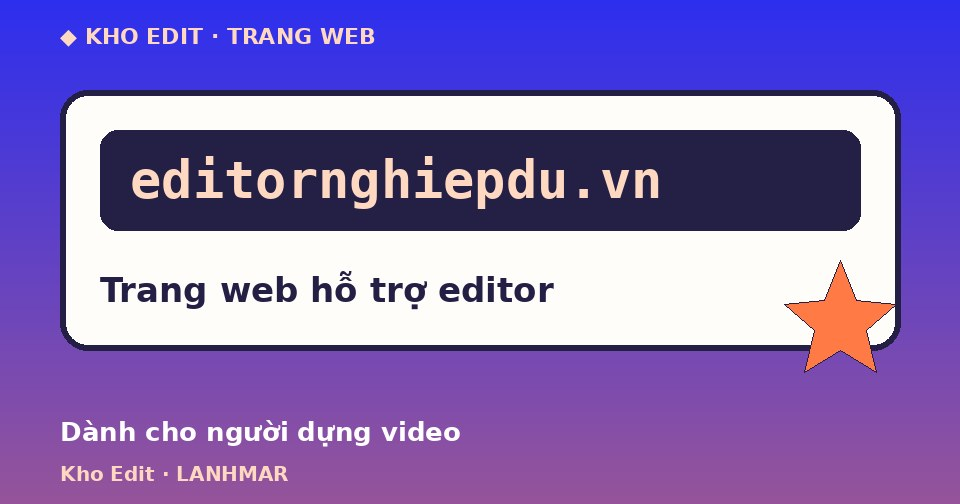
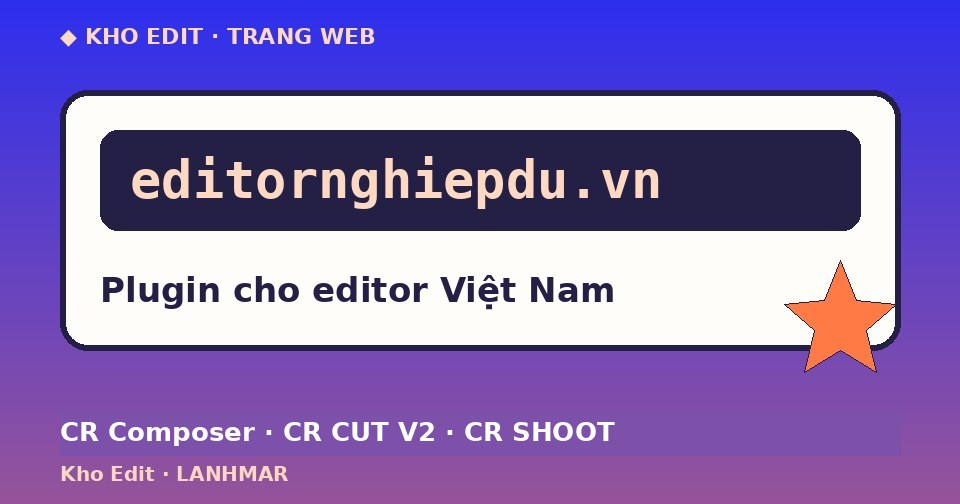
Kho Edit: bổ sung đầy đủ thông tin Editor Nghiệp Dư (plugin, ứng dụng, hỗ trợ)
Claude-Session: https://claude.ai/code/session_01RqgEvEgWxcjLrv9ZG7Ny97

diff --git a/storage.html b/storage.html
@@ -6,8 +6,8 @@
 <title>Data Storage — LANHMAR</title>
 <meta name="robots" content="noindex,nofollow,noarchive">
 <link rel="icon" href="assets/img/logo-lanhmar.png">
-<link rel="stylesheet" href="kho.css?v=20261028f">
-<link rel="stylesheet" href="donate.css?v=20261028f">
+<link rel="stylesheet" href="kho.css?v=20261028g">
+<link rel="stylesheet" href="donate.css?v=20261028g">
 </head>
 <body>
 <div class="marquee"><span>★ DATA STORAGE ★ LANHMAR ★ DATA STORAGE ★ LANHMAR ★ DATA STORAGE ★ LANHMAR ★ DATA STORAGE ★ LANHMAR</span></div>
@@ -67,12 +67,12 @@
 </div>
 
 <dialog id="resDlg" class="res-dlg"></dialog>
-<script src="site-config.js?v=20261028f"></script>
-<script src="donate.js?v=20261028f"></script>
-<script src="kho-data.js?v=20261028f"></script>
-<script src="resource.js?v=20261028f"></script>
-<script src="storage-config.js?v=20261028f"></script>
-<script src="chat.js?v=20261028f"></script>
-<script src="storage.js?v=20261028f"></script>
+<script src="site-config.js?v=20261028g"></script>
+<script src="donate.js?v=20261028g"></script>
+<script src="kho-data.js?v=20261028g"></script>
+<script src="resource.js?v=20261028g"></script>
+<script src="storage-config.js?v=20261028g"></script>
+<script src="chat.js?v=20261028g"></script>
+<script src="storage.js?v=20261028g"></script>
 </body>
 </html>

diff --git a/kho.html b/kho.html
@@ -5,7 +5,7 @@
 <meta name="viewport" content="width=device-width,initial-scale=1">
 <title>Kho cá nhân</title>
 <meta name="robots" content="noindex,nofollow,noarchive">
-<link rel="stylesheet" href="kho.css?v=20261028f">
+<link rel="stylesheet" href="kho.css?v=20261028g">
 </head>
 <body>
 <section id="lock" class="lockbox"><form id="lockForm" class="lockcard" autocomplete="off">
@@ -71,10 +71,10 @@
 <dialog id="gDlg"><h2>Đăng nhập Google</h2><p>Đăng nhập lại bằng mail chủ kho để lưu/đồng bộ lên đám mây.</p><div id="gBtn2" class="gbtn"></div><div class="row"><button type="button" class="btn" id="gClose">Đóng</button></div></dialog>
 <dialog id="resDlg" class="res-dlg"></dialog>
 <script src="https://accounts.google.com/gsi/client" async defer></script>
-<script src="kho-data.js?v=20261028f"></script>
-<script src="resource.js?v=20261028f"></script>
-<script src="storage-config.js?v=20261028f"></script>
-<script src="chat.js?v=20261028f"></script>
-<script src="kho.js?v=20261028f"></script>
+<script src="kho-data.js?v=20261028g"></script>
+<script src="resource.js?v=20261028g"></script>
+<script src="storage-config.js?v=20261028g"></script>
+<script src="chat.js?v=20261028g"></script>
+<script src="kho.js?v=20261028g"></script>
 </body>
 </html>

diff --git a/index.html b/index.html
@@ -6,8 +6,8 @@
 <title>LANHMAR — Dương Thị Lan Anh | Digital Marketer</title>
 <meta name="description" content="Portfolio của Dương Thị Lan Anh (LANHMAR) — Digital Marketer: SEO, Performance, Design, Edit, AI Agent.">
 <link rel="icon" href="assets/img/logo-lanhmar.png">
-<link rel="stylesheet" href="site.css?v=20261028f">
-<link rel="stylesheet" href="donate.css?v=20261028f">
+<link rel="stylesheet" href="site.css?v=20261028g">
+<link rel="stylesheet" href="donate.css?v=20261028g">
 </head>
 <body>
 <header class="pill-nav" id="top">
@@ -173,10 +173,10 @@
   <div id="dlgBody"></div>
 </dialog>
 
-<script src="assets/qrcode.min.js?v=20261028f"></script>
-<script src="site-config.js?v=20261028f"></script>
-<script src="storage-config.js?v=20261028f"></script>
-<script src="donate.js?v=20261028f"></script>
-<script src="site.js?v=20261028f"></script>
+<script src="assets/qrcode.min.js?v=20261028g"></script>
+<script src="site-config.js?v=20261028g"></script>
+<script src="storage-config.js?v=20261028g"></script>
+<script src="donate.js?v=20261028g"></script>
+<script src="site.js?v=20261028g"></script>
 </body>
 </html>
